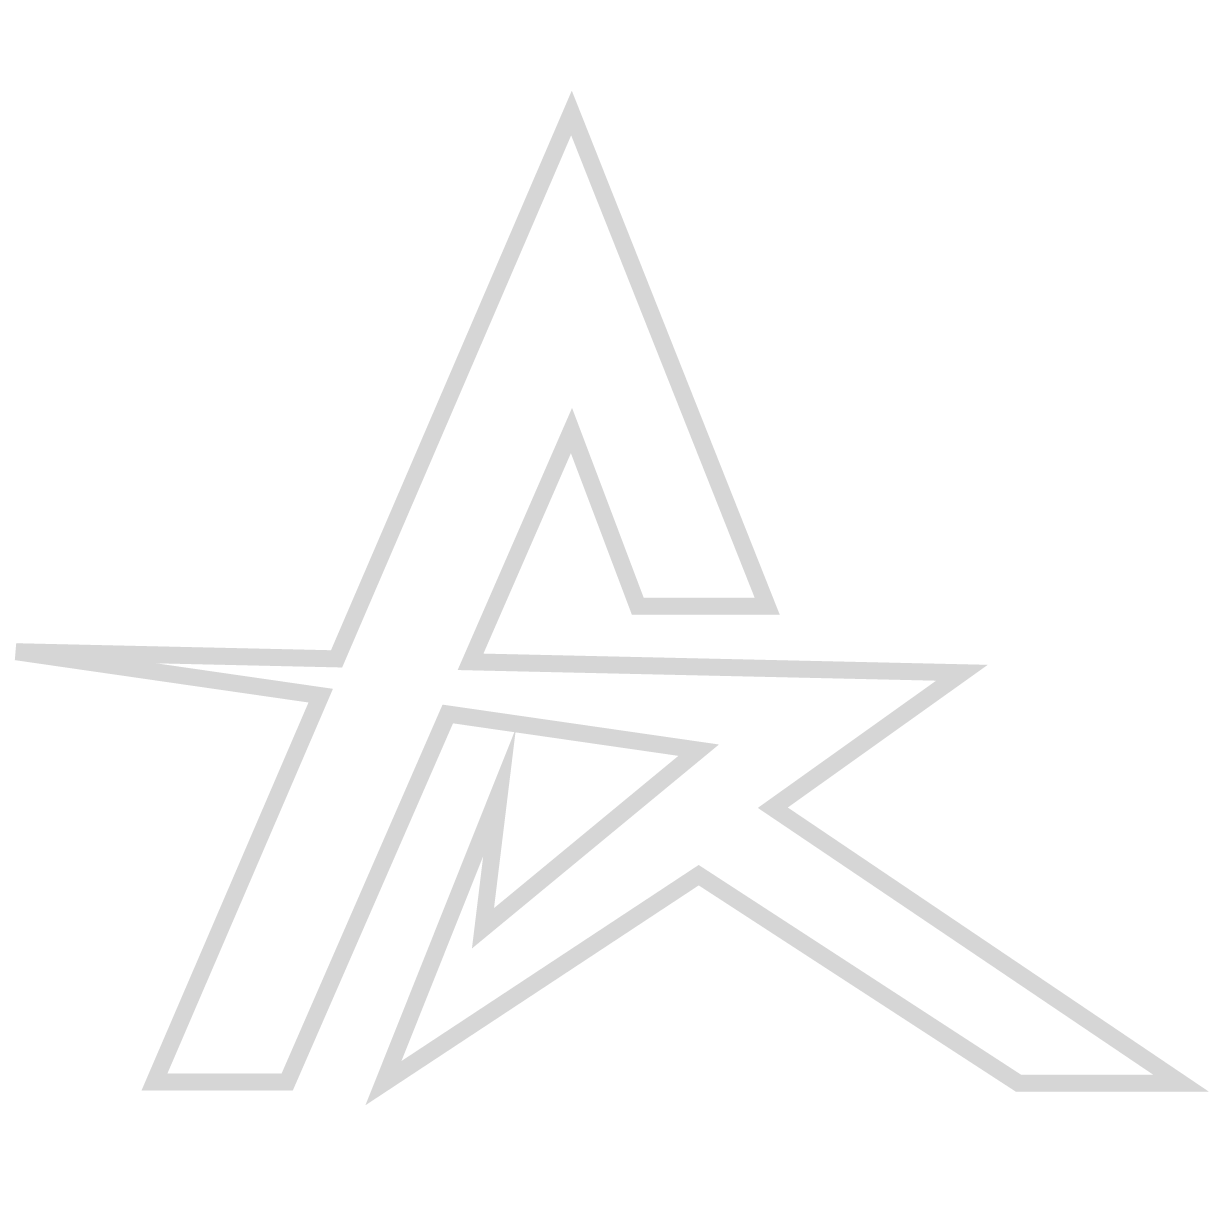
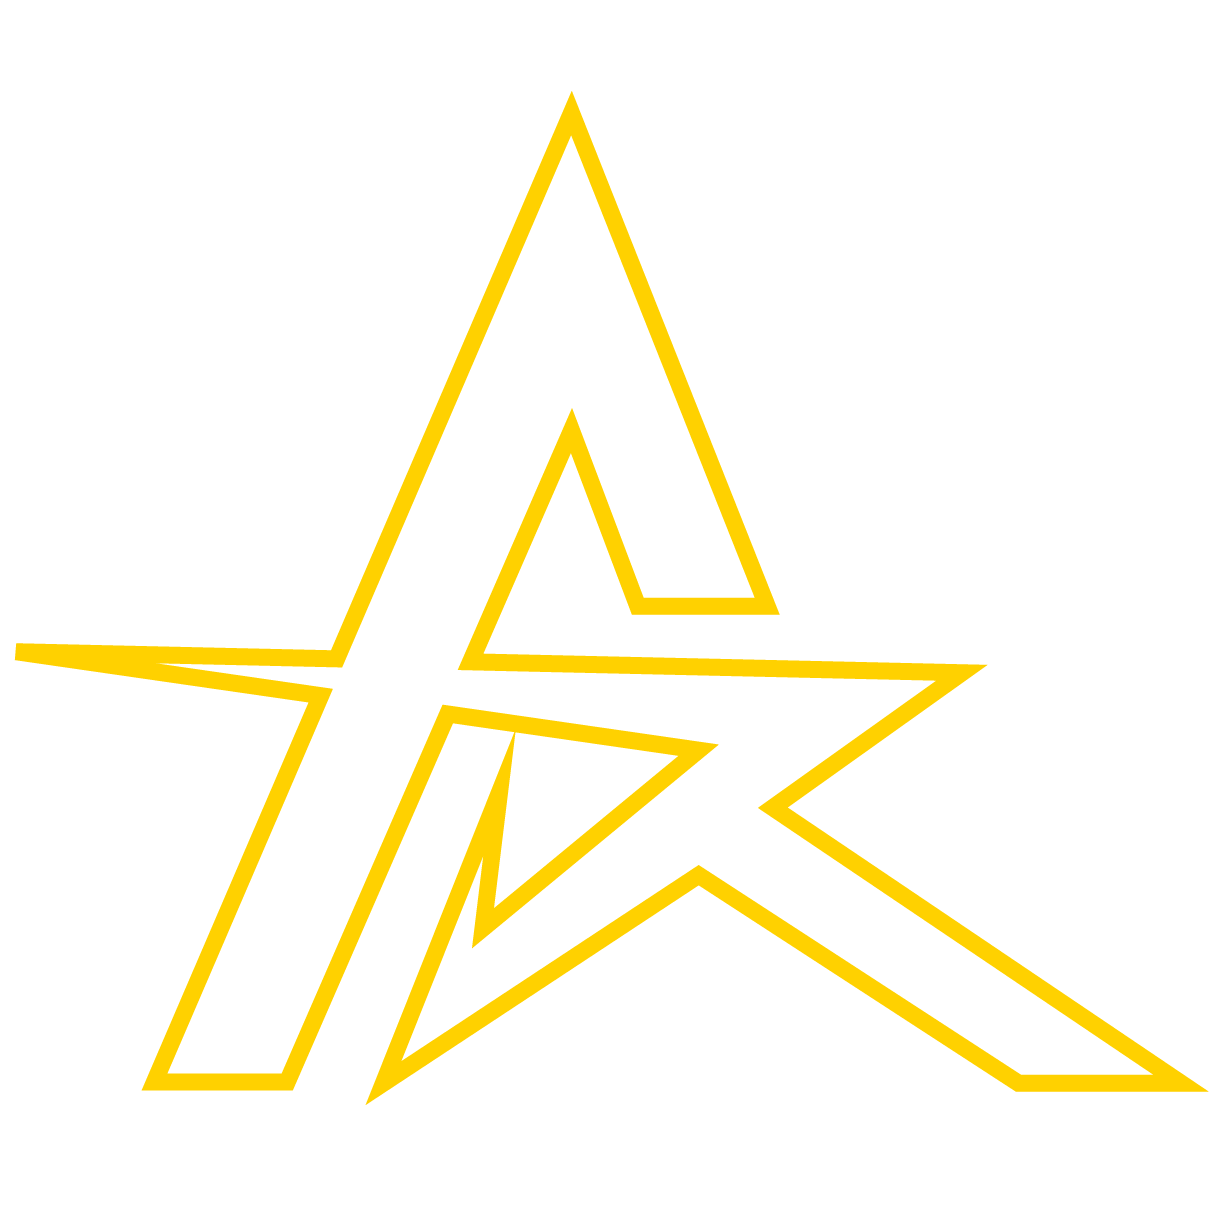
2.00

diff --git a/style.css b/style.css
@@ -28,51 +28,100 @@ height: 30px;
 background-color: #4d4d4d;
 }
 
+
+/* scroll down */
+
+.scroll-down {
+  position: absolute;
+  left: 50%;
+  bottom: 9vh;
+  display: block;
+  text-align: center;
+  font-size: 20px;
+  z-index: 100;
+  text-decoration: none;
+  text-shadow: 0;
+  width: 4vh;
+  height: 4vh;
+  border-bottom: 1vh solid #ffd100;
+  border-right: 1vh solid #ffd100;
+  z-index: 9;
+  left: 50%;
+  -webkit-transform: translate(-50%, 0%) rotate(45deg);
+  -moz-transform: translate(-50%, 0%) rotate(45deg);
+  transform: translate(-50%, 0%) rotate(45deg);
+  -webkit-animation: fade_move_down 4s ease-in-out infinite;
+  -moz-animation:    fade_move_down 4s ease-in-out infinite;
+  animation:         fade_move_down 4s ease-in-out infinite;
+}
+
+
+/*animated scroll arrow animation*/
+@-webkit-keyframes fade_move_down {
+  0%   { -webkit-transform:translate(0,-10px) rotate(45deg); opacity: 0;  }
+  50%  { opacity: 1;  }
+  100% { -webkit-transform:translate(0,10px) rotate(45deg); opacity: 0; }
+}
+@-moz-keyframes fade_move_down {
+  0%   { -moz-transform:translate(0,-10px) rotate(45deg); opacity: 0;  }
+  50%  { opacity: 1;  }
+  100% { -moz-transform:translate(0,10px) rotate(45deg); opacity: 0; }
+}
+@keyframes fade_move_down {
+  0%   { transform:translate(0,-10px) rotate(45deg); opacity: 0;  }
+  50%  { opacity: 1;  }
+  100% { transform:translate(0,10px) rotate(45deg); opacity: 0; }
+}
+
 /* CONTENT */
 
 
 html, body
 {
     margin: 0px;
+    padding:  0px;
     
 }
 
 header
 {
-  margin: 0 auto;
+  width: 100%;
   height: 100vh;
 	text-align: center;
 	background-color: #4d4d4d;
-  background-image: url('header.gif');
- background-repeat: no-repeat;
+  background: url('header.gif') no-repeat center center;
  background-size: cover;
 }
 
-header h1
-{	
-  padding-top: 30vh;
-	font-family: 'Jost-VariableFont_wght', sans-serif;
-  color: #d6d6d6;
-  font-size: 50px;
-  font-weight: lighter;
-  margin-bottom: 5px;
+.wrapper{
+  display: table;
+  width: 100%;
+  height: 100%;
 }
 
-header span
-{	
-	font-family: 'Jost-VariableFont_wght', sans-serif;
-  color: #202020;
-  font-size: 20px;
+.content{
+  display: table-cell;
+  text-align: center;
+  text-shadow: 1px 1px 10px rgba(black, 0.5) ;
 }
+
+header h1{
+  margin-top: 8vh;
+  font-size: 8vh;
+  color: #ffd100;
+  font-family: 'Jost-VariableFont_wght', sans-serif;
+  letter-spacing: .4em;
+}
+
 
 div.container1
 { 
   padding-top: 15vh;
   padding-bottom: 15vh;
 	text-align: center;
-  background-image: url('presentation_banner.png');
-  background-repeat: no-repeat;
-  background-size: cover;
+  background: url('presentation_banner.png') center center;
+  background-size: auto 100%;
+  background-color: #4d4d4d;
 }
 
 div.container1 a
@@ -80,19 +129,31 @@ div.container1 a
 	font-family: 'Spartan-Light', sans-serif;
 	font-size: 3vh;
   text-align: center;
+  color: #d6d6d6;
+  text-decoration: none;
+  line-height:  5vh;
+}
+
+div.container1 a span
+{ 
+  font-family: 'Spartan-Light', sans-serif;
+  font-size: 3vh;
+  text-align: center;
   color: #ffd100;
   text-decoration: none;
   line-height:  5vh;
 }
+
 
 div.container
 { 
   padding-top: 12vh;
   padding-bottom: 12vh;
 	text-align: center;
-  background-image: url('categories.png');
- background-repeat: no-repeat;
- background-size: cover;
+  
+  background-repeat: no-repeat;
+  background-size: cover;
+  background-color: #202020;
 
 
 }
@@ -111,7 +172,7 @@ div.container a
 
 div.container a:hover {
 
-	color: #202020;
+	color: #ffd100;
 	transition-duration: 0.3s;
 }
 
@@ -137,14 +198,13 @@ div.container2
   background-color: #ad2831;
 }
 
-.container3 {
-  box-shadow: inset 0 20px 30px rgba(32, 32, 32, .5);
-}
-
-#containershad2 {
+#containershad1  {
   box-shadow: 0 -20px 30px rgba(32, 32, 32, .5);
 }
 
+footer  {
+  box-shadow: inset 0 20px 30px rgba(32, 32, 32, .5);
+}
 
 
 div.container3
@@ -183,23 +243,27 @@ div.container3 a:hover {
 
 
 /* Footer */
+footer {
+  background-color: #4d4d4d;
+  background: url('footer.png') no-repeat center center;
+ background-size: cover;
+ padding-bottom: 5vh;
+}
 
 footer img{
   display: block;
-  width: 20vh;
+  width: 22vh;
   height: auto;
-  margin-top: 20vh;
-  margin-bottom: 5vh;
+  padding-top: 10vh;
+  margin-bottom: 2vh;
   margin-left: auto;
   margin-right: auto;
 }
 
-
-
 footer .mailto {
  
   text-align: center;
-  margin-bottom: 3vh;
+  margin-bottom: 1vh;
 }
 
 footer .CV {
@@ -209,16 +273,16 @@ footer .CV {
 }
 
 footer a {
-  font-family: 'Spartan-Light', sans-serif;
-  font-size: 2.5vh;
-  color: #ffd100;
+  font-family: 'Jost-VariableFont_wght', sans-serif;
+  font-size: 3.5vh;
+  color: #d6d6d6;
   text-decoration: none;
 }
 
 
 footer a:hover {
 
-  color: #d6d6d6;
+  color: #4d4d4d;
   transition-duration: 0.3s;
 }
 
@@ -233,7 +297,6 @@ footer p {
   margin-top: 10vh;
   text-align: center;
   font-size: 1.5vh;
-  margin-bottom: 5vh;
   color: #d6d6d6;
 }
 

diff --git a/index.html b/index.html
@@ -19,15 +19,21 @@
 
   	<div class="visibledesktop">	
           <header>
+            <div class="wrapper">
+              <div class="content">
+                <h1>PORTFOLIO</h1>
+                <div class="scroll-down"></div>
+              </div>
+            </div>
             
           </header>
 
-          <div class="container1 red ">
-            <a>Je m'appelle Antoine Riou, j'ai 20 ans <br> et je suis passionné par le cinéma, le dessin et l'animation.<br> Je vous propose de découvrir les différentes créations<br> que j'ai pu réaliser durant mon parcours.</a>
+
+           <div class="container2" id="containershad1">
             
           </div>
-
-          <div class="container purple ">
+         
+          <div class="container purple " id="shad1">
             <a href="animation2D.html">Animation 2D</a>
             <a href="photo.html">Photo</a>
             <a href="video.html">Vidéo</a>
@@ -35,21 +41,21 @@
             
           </div>
 
+            
 
-          <div class="container2" id="containershad1">
+           <div class="container1 red " id="shad3">
+            <a>Je m'appelle<span> Antoine Riou</span>, j'ai <span>20 ans </span><br> et je suis passionné par<span> le cinéma</span>,<span> le dessin</span> et <span>l'animation.</span><br> Je vous propose de découvrir les différentes créations<br> que j'ai pu réaliser durant mon parcours.</a>
             
           </div>
 
-          <div class="container3 purple">
+          <!-- <div class="container3 purple">
             <a href="nft.html">NFT</a>
                   
-          </div>
+          </div> -->
 
-          <div class="container2" id="containershad2">
-            
-          </div>
+               
 
-          <div class="container purple ">
+          <div class="container purple" id="shad2">
             
             <a href="illustration.html">Illustration</a>
             <a href="graphisme.html">Graphisme</a>
@@ -59,6 +65,12 @@
             
           </div>
 
+          <div class="container2" id="containershad2">
+            
+          </div>
+
+
+           
         <footer>
         			<img src="AR_Jaune.png" alt="AR"/>
         			<p class="mailto"><a href="mailto:antoine_riou@outlook.com"> antoine_riou@outlook.com </a></p>
@@ -66,7 +78,8 @@
         			<p class="certif"> © 2019-2022 Antoine Riou</p>
 
         </footer>
-        
+
+         
       </div>
     </div>
 

diff --git a/photo.html b/photo.html
@@ -171,7 +171,7 @@
 
     <div class="modal-header">
       <span class="close">&times;</span>
-      <h2> SinCity <a> </a></h2>
+      <h2> Sin City <a> </a></h2>
     </div>
 
     <div class="modal-body2">
